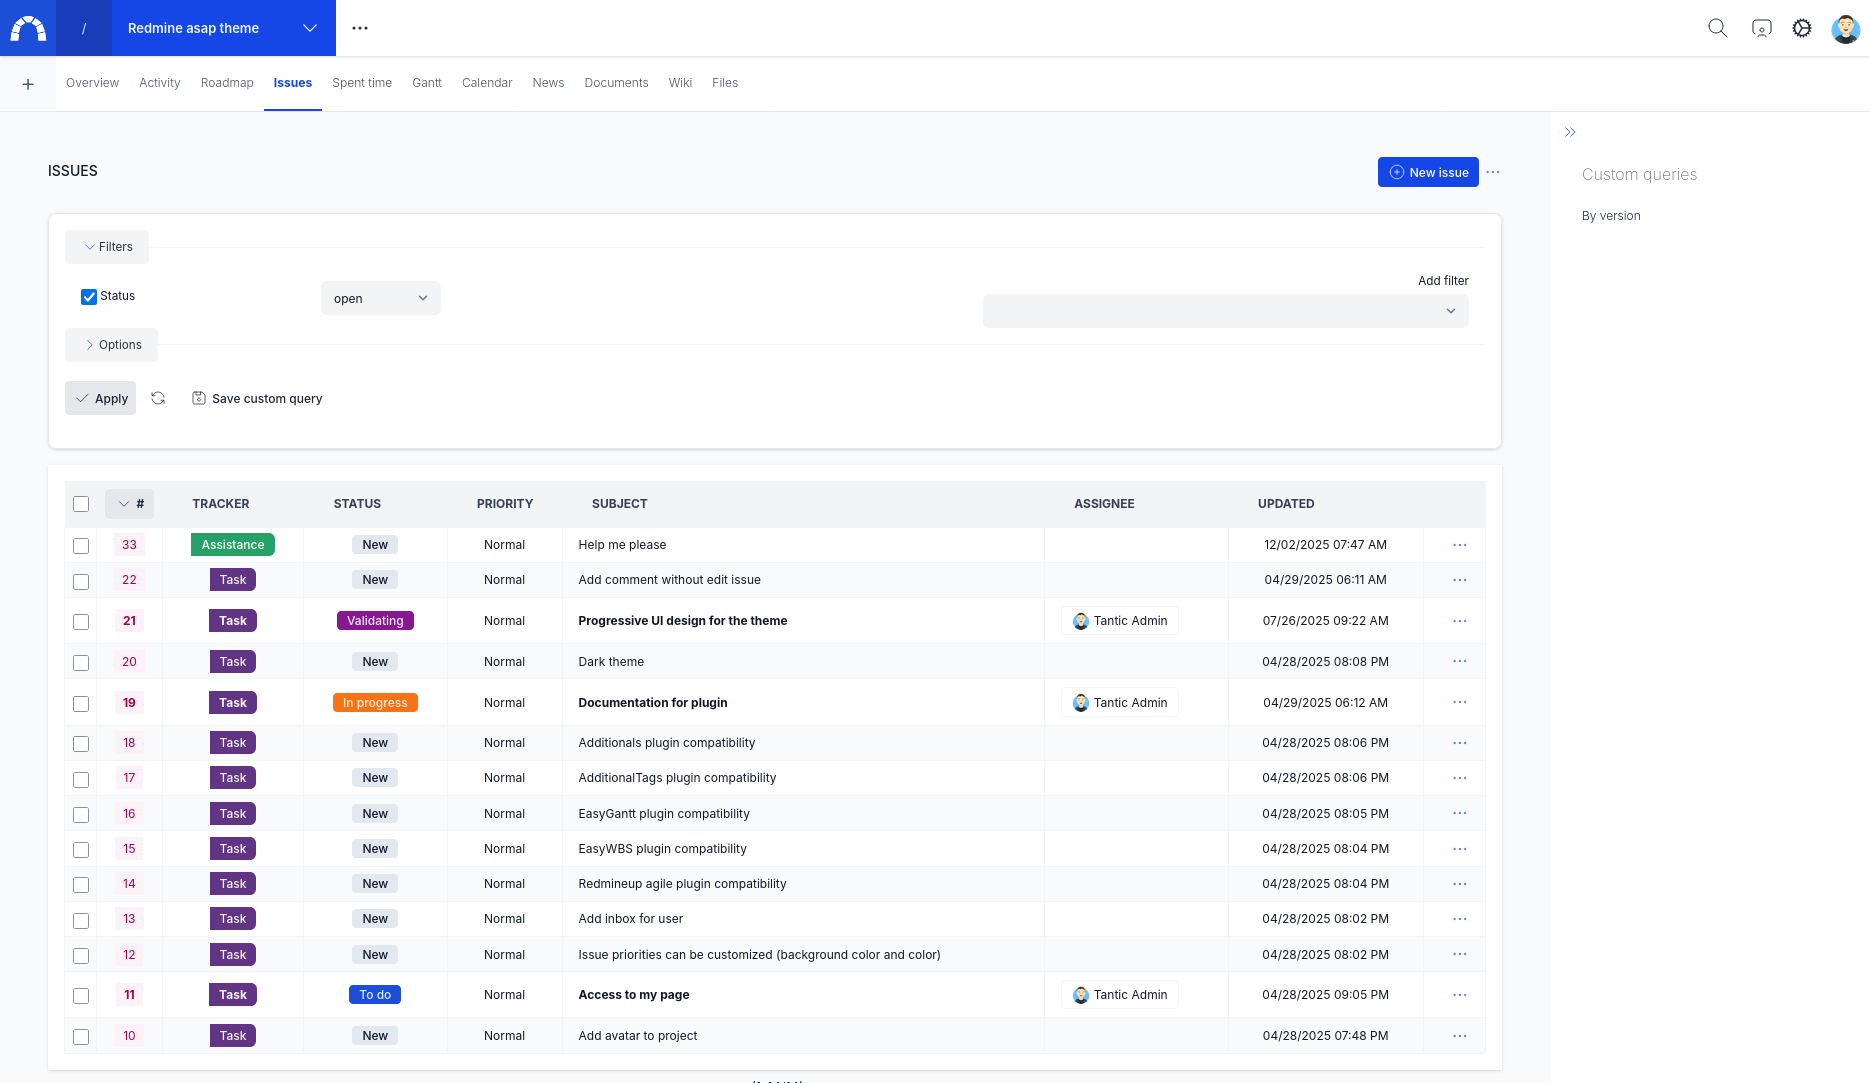
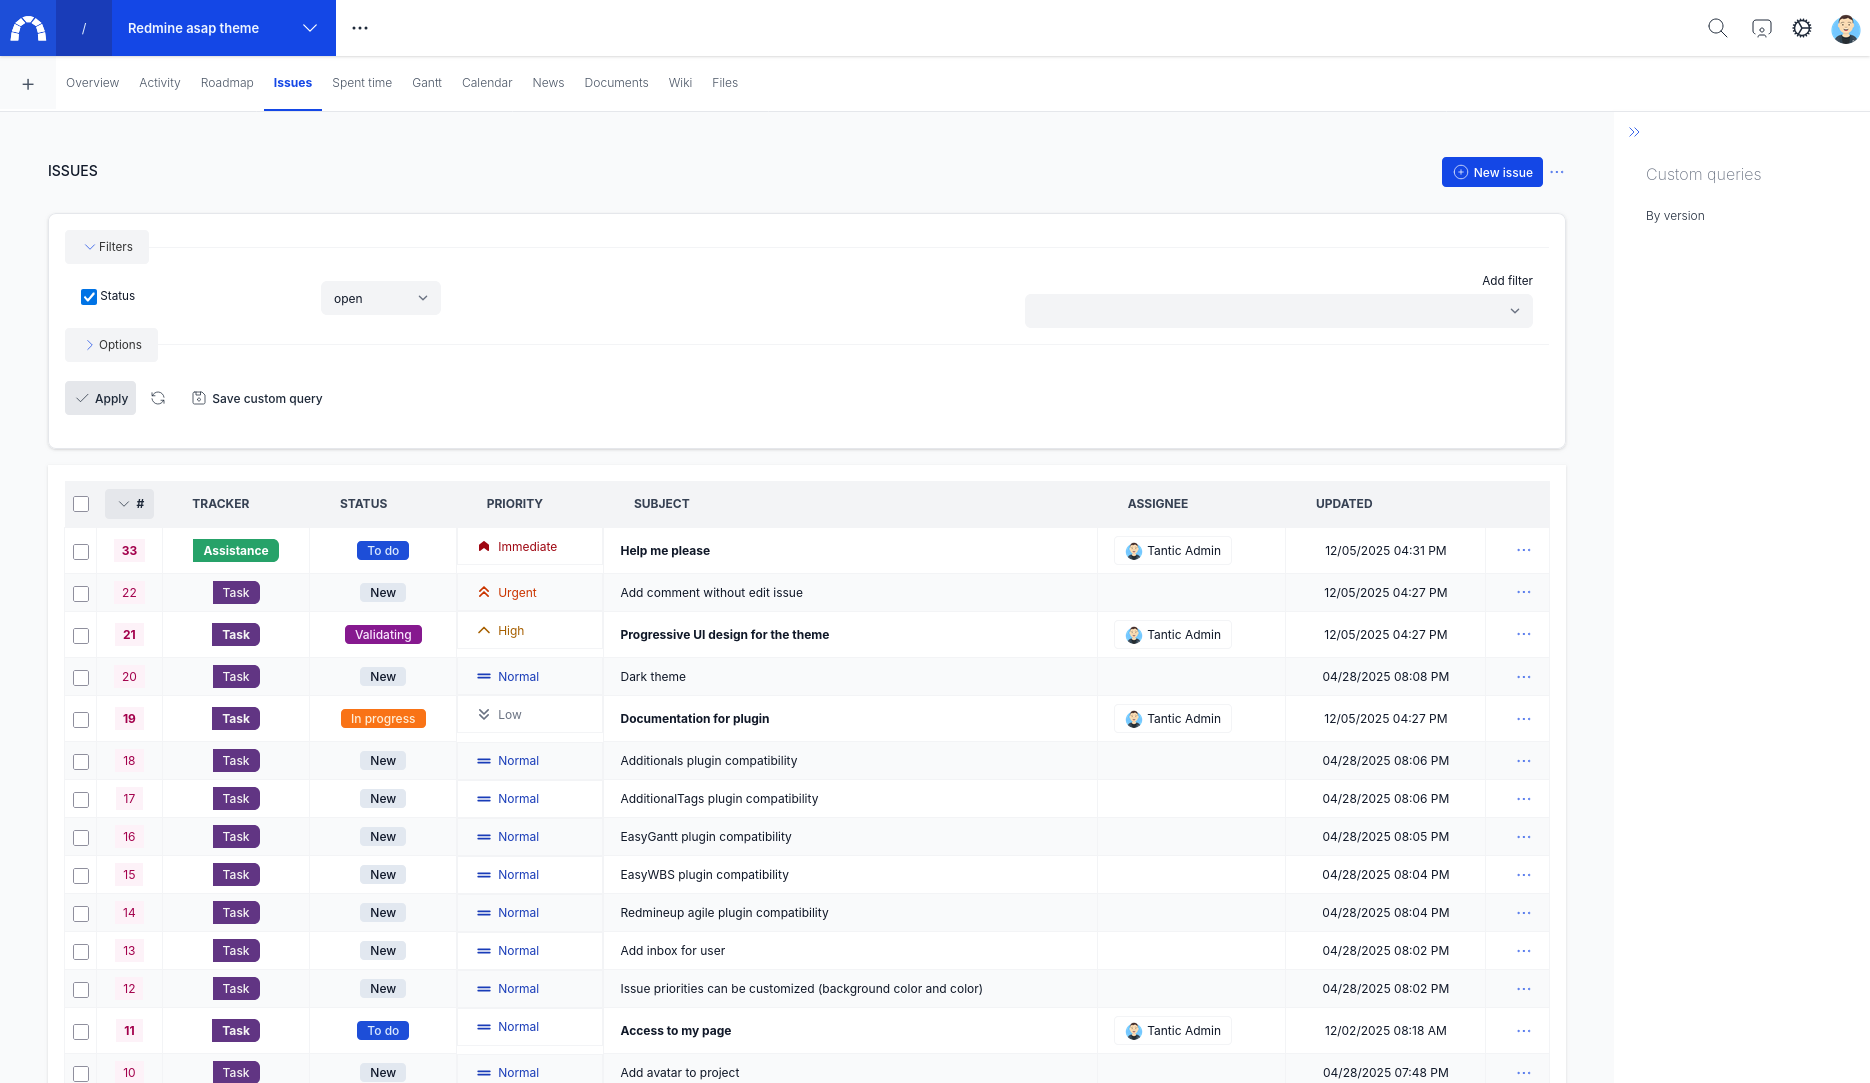
Add screenshot with priority colors

diff --git a/README.md b/README.md
@@ -33,19 +33,21 @@ In progress
 
 ## Screenshots
 
-![Login page](doc/screenshots/login.png)
+![Login page](doc/screenshots/login.png | width=)
 
 ![welcome page](doc/screenshots/welcome.png)
 
 ![Issues page](doc/screenshots/issues.png)
 
+![Issue page](doc/screenshots/issue.png)
+
 ![Preferences](doc/screenshots/preferences.png)
 
 ![Dark](doc/screenshots/dark.png)
 
-![Mobile](doc/screenshots/mobile.png)
+![Mobile](doc/screenshots/mobile.png | width=200)
 
-![Mobile](doc/screenshots/mobile2.png)
+![Mobile](doc/screenshots/mobile2.png | width=200)
 
 ## Installation
 
